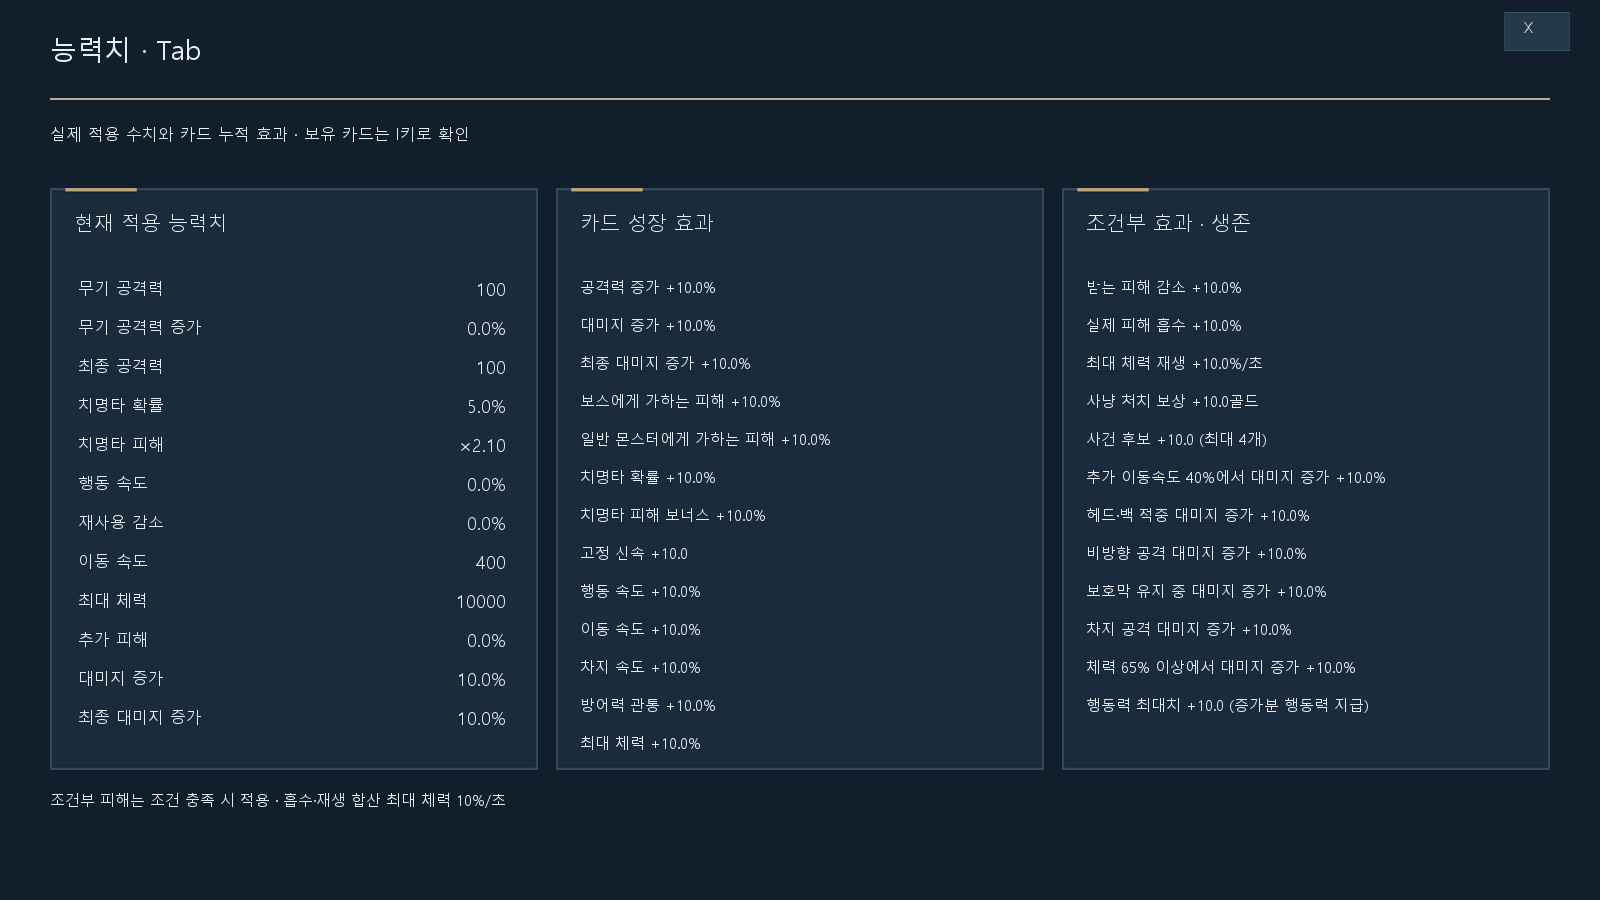
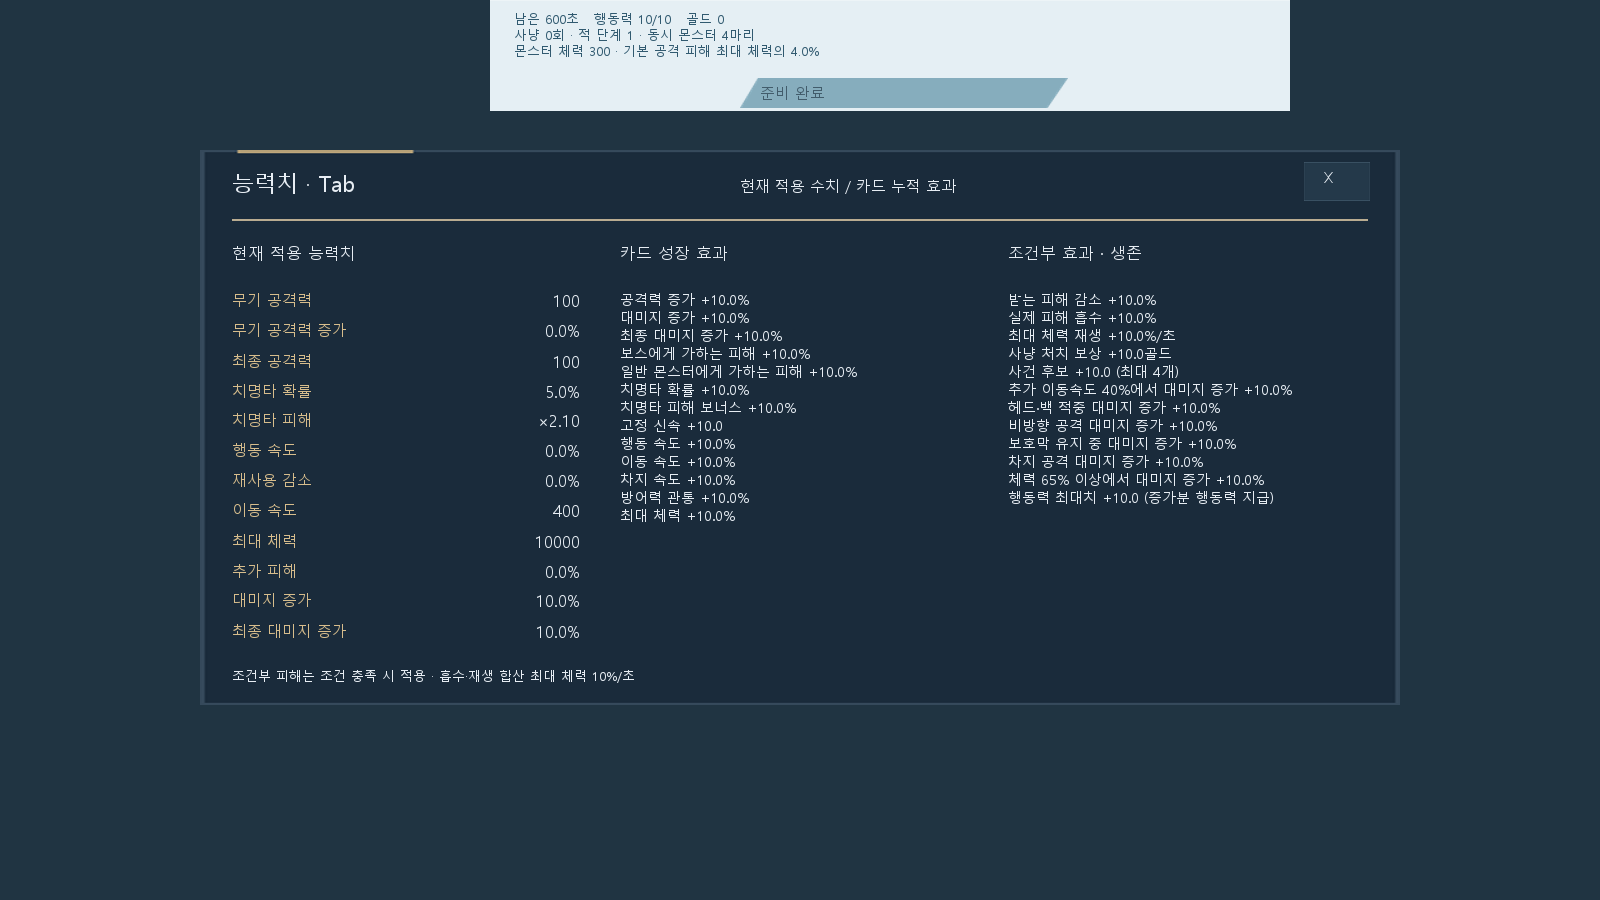
Tab 능력치창을 중앙 정보 패널로 축소하고 정렬 개선

diff --git a/assets/expedition/polish/README.md b/assets/expedition/polish/README.md
@@ -31,7 +31,7 @@
 
 - 출발. 경로 장식과 안내 제목, 원정 규칙·출발 장비·파티 준비 상태를 분리했다. 공통 메뉴를 숨겨 제목과 겹치지 않으며 X/ESC로 닫는다.
 - 사건. 밝은 종이색 패널과 직사각형 선택 영역을 사용한다. 설명·보상·비용·확정 영역과 최대 4개 후보/행동 흐름을 유지한다.
-- Tab 능력치. 보유 카드 탭을 제거하고 이름과 수치를 분리해 숫자를 오른쪽 정렬한다. 카드 효과는 값이 0인 항목을 숨기고 성장과 조건부·생존 효과로 구분한다.
+- Tab 능력치. 게임 화면이 보이는 중앙 0.60×0.37 패널이며, 보유 카드 탭을 제거하고 이름과 수치를 분리해 숫자를 오른쪽 정렬한다. 카드 효과는 값이 0인 항목을 숨기고 성장과 조건부·생존 효과로 구분한다.
 - I 보유 카드. 화면 중앙의 10열×5행 아이콘 보관함으로 분리했다. 빈 칸을 유지하고 50장 초과 시 페이지로 넘긴다. 카드 이름·효과·강화·각성 정보는 아이콘에 마우스를 올리면 나타난다.
 - 강화 화면. 이번 변경에서 레이아웃과 기존 텍스처는 수정하지 않았다.
 

diff --git a/assets/expedition/hunt-ui/README.md b/assets/expedition/hunt-ui/README.md
@@ -17,6 +17,6 @@ python -B tools/render-hunt-ui.py "$env:TEMP/arcana-hunt-ui-frames.json"
 
 `text-fit.json`은 선택한 13개 화면의 추정 글자 영역 초과 목록이다. 전체 콘텐츠나 게임 폰트 검증을 뜻하지 않는다.
 
-Tab은 능력치 전용, I는 보유 카드 전용이다. 공통 지도·선택지 메뉴는 각 창에서 숨긴다. I키 창은 10열×5행 아이콘 격자이며 큰 이미지 영역은 제거했다. 효과·강화 배율·각성 조건은 아이콘 호버 툴팁에서 확인한다. 작품별 아이콘 연결은 다음 작업으로 남긴다.
+Tab은 중앙의 능력치 전용 패널, I는 보유 카드 전용이다. 전체 화면을 덮지 않는다. 공통 지도·선택지 메뉴는 각 창에서 숨긴다. I키 창은 10열×5행 아이콘 격자이며 큰 이미지 영역은 제거했다. 효과·강화 배율·각성 조건은 아이콘 호버 툴팁에서 확인한다. 작품별 아이콘 연결은 다음 작업으로 남긴다.
 
 새 텍스처와 임포트 방법은 [원정 UI 텍스처 적용 안내](../polish/README.md)를 참고한다. 미리보기는 인게임 캡처가 아니다.
